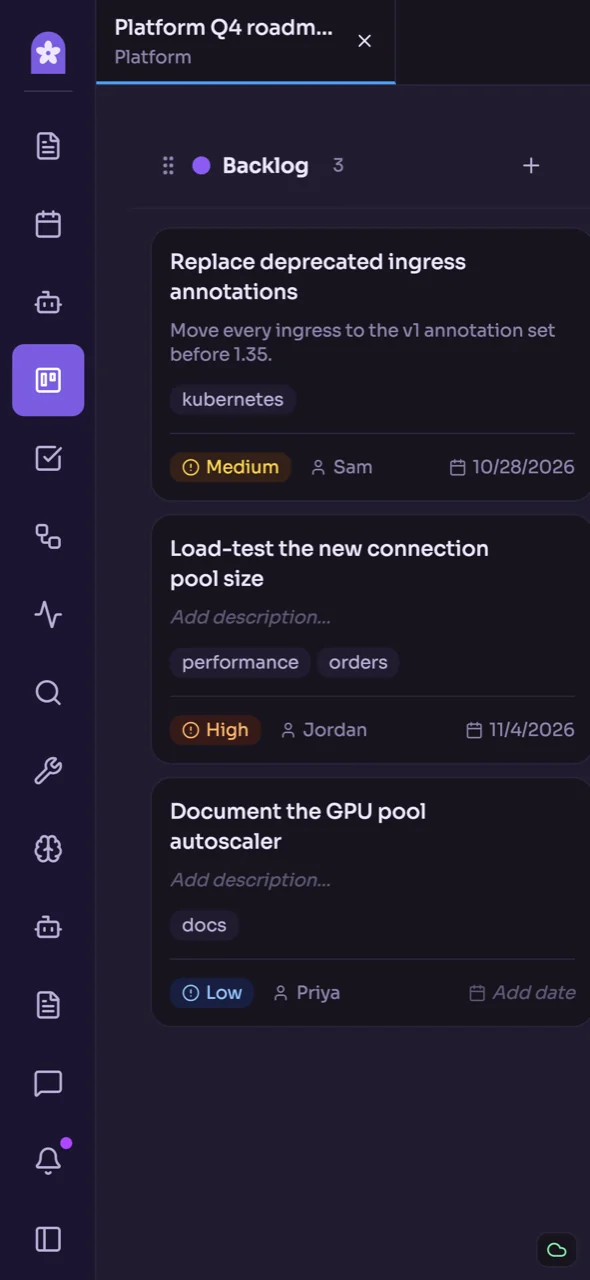
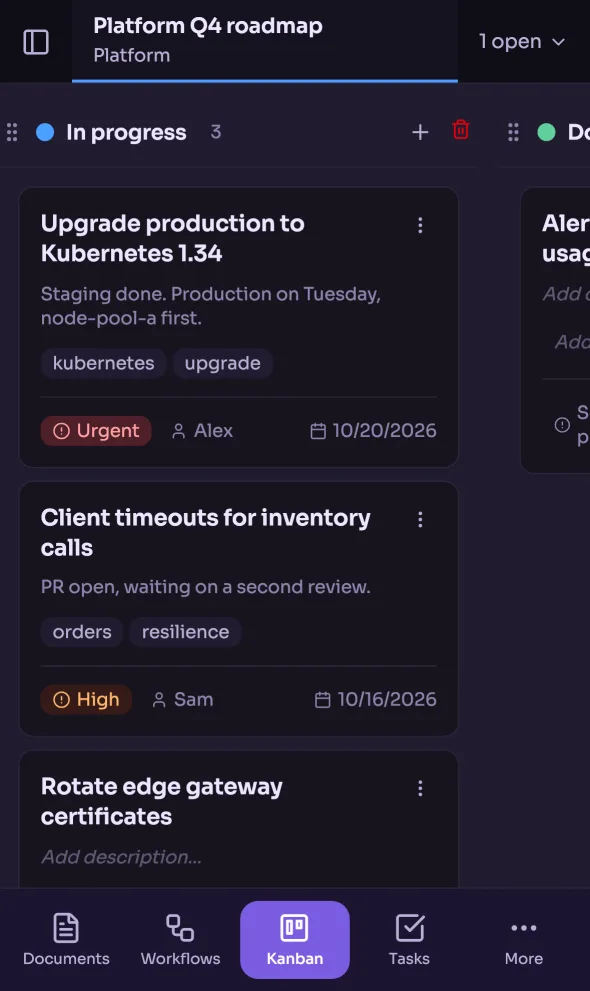
Phone Layout

diff --git a/index.html b/index.html
@@ -8,11 +8,11 @@
 <link rel="preconnect" href="https://fonts.googleapis.com">
 <link rel="preconnect" href="https://fonts.gstatic.com" crossorigin>
 <link href="https://fonts.googleapis.com/css2?family=Sora:wght@400;600;700&amp;display=swap" rel="stylesheet">
-<link rel="stylesheet" href="css/tokens.css?v=20261016a">
-<link rel="stylesheet" href="css/site.css?v=20261016a">
+<link rel="stylesheet" href="css/tokens.css?v=20261017a">
+<link rel="stylesheet" href="css/site.css?v=20261017a">
 <script>document.documentElement.classList.add('js');</script>
-<script type="module" src="js/jacaranda-tree.js?v=20261016a"></script>
-<script type="module" src="js/main.js?v=20261016a"></script>
+<script type="module" src="js/jacaranda-tree.js?v=20261017a"></script>
+<script type="module" src="js/main.js?v=20261017a"></script>
 </head>
 <body>
 <div class="page">
@@ -59,7 +59,7 @@
   <div class="hero-stage">
     <div class="frame-col">
       <!--
-        Two screenshot frames, desktop and phone, each a carousel of 1–6
+        Two screenshot frames, desktop and phone, each a carousel of 1–8
         .slide elements. Click the frame behind to bring it to the front.
         To add a screenshot, replace a slide's placeholder with
           <img src="images/shot1.png" alt="…">
@@ -110,13 +110,28 @@
         <div class="device-body">
         <div class="deck phone-deck">
           <div class="slide" data-caption="Read a runbook on the go.">
-            <img src="images/screenshots/phone-documents.webp" alt="Runbook open on a phone" width="590" height="1280" decoding="async">
+            <img src="images/screenshots/phone-document-reader.webp" alt="Runbook open in the reader on a phone" width="590" height="991" decoding="async">
+          </div>
+          <div class="slide" data-caption="Edit Markdown with line numbers and a formatting toolbar.">
+            <img src="images/screenshots/phone-document-editor.webp" alt="Runbook open in the Markdown editor on a phone" width="590" height="991" decoding="async">
+          </div>
+          <div class="slide" data-caption="Check a workflow on your phone, edit it on desktop.">
+            <img src="images/screenshots/phone-workflow.webp" alt="Read-only workflow with a health check and a branch on a phone" width="590" height="991" decoding="async">
           </div>
           <div class="slide" data-caption="The board, one column at a time.">
-            <img src="images/screenshots/phone-kanban.webp" alt="Kanban board on a phone" width="590" height="1280" decoding="async">
+            <img src="images/screenshots/phone-kanban.webp" alt="Kanban board on a phone" width="590" height="991" decoding="async">
           </div>
-          <div class="slide" data-caption="The same server, from your phone.">
-            <img src="images/screenshots/phone-sign-in.webp" alt="Sign-in page on a phone" width="590" height="1280" decoding="async">
+          <div class="slide" data-caption="Your tasks with priorities, due dates and a timer.">
+            <img src="images/screenshots/phone-tasks.webp" alt="Task list on a phone" width="590" height="991" decoding="async">
+          </div>
+          <div class="slide" data-caption="The same runbook in the light theme.">
+            <img src="images/screenshots/phone-document-reader-light.webp" alt="Runbook in the reader, light theme, on a phone" width="590" height="991" decoding="async">
+          </div>
+          <div class="slide" data-caption="The board in the light theme.">
+            <img src="images/screenshots/phone-kanban-light.webp" alt="Kanban board, light theme, on a phone" width="590" height="991" decoding="async">
+          </div>
+          <div class="slide" data-caption="Tasks in the light theme.">
+            <img src="images/screenshots/phone-tasks-light.webp" alt="Task list, light theme, on a phone" width="590" height="991" decoding="async">
           </div>
         </div>
         <div class="frame-foot phone-foot">
@@ -131,7 +146,7 @@
         <button type="button" class="device-switch" aria-label="Bring phone screenshots to the front"></button>
       </figure>
       </div>
-      <p class="stack-note">On a phone, Jacarium runs in your browser; it isn't optimised for mobile yet.</p>
+      <p class="stack-note">Jacarium is mobile friendly: on a phone, it runs in your browser.</p>
     </div>
 
     <div class="hero-tree">

diff --git a/css/site.css b/css/site.css
@@ -84,14 +84,14 @@ img { max-width: 100%; }
 .device[data-back] .device-switch { display: block; }
 
 .phone { position: absolute; left: 0; bottom: -3%; width: 29%; max-width: 250px; padding: 8px; border-radius: 36px; background: var(--bg-card); box-shadow: 0 0 0 1px var(--line-strong), 0 40px 80px -30px #000000, 0 20px 40px -20px #2A1F4D; transform-origin: 0% 100%; }
-.phone-deck { aspect-ratio: 9 / 19.5; margin: 0; }
+.phone-deck { aspect-ratio: 590 / 991; margin: 0; }
 .phone-deck .slide, .phone-deck .slide-ph { border-radius: 28px; }
 .phone-deck .slide-ph { padding: 12px; gap: 8px; }
 .phone-deck .slide-ph-title { font-size: 12px; }
 .phone-foot { flex-direction: column; gap: 6px; padding: 10px 0 4px; }
 .phone-foot .frame-caption { flex: none; text-align: center; font-size: 12px; }
 .phone-foot .carousel-controls { flex-wrap: nowrap; gap: 2px; }
-.phone-foot .dot { width: 20px; }
+.phone-foot .dot { width: 14px; }
 
 .device-stack[data-front="desktop"] .frame { z-index: 2; transform: var(--tilt); }
 .device-stack[data-front="desktop"] .phone { z-index: 1; transform: var(--tilt) translate3d(-30%, -4%, 0) scale(0.78); filter: brightness(0.55) saturate(0.8); }

diff --git a/faq.html b/faq.html
@@ -8,8 +8,8 @@
 <link rel="preconnect" href="https://fonts.googleapis.com">
 <link rel="preconnect" href="https://fonts.gstatic.com" crossorigin>
 <link href="https://fonts.googleapis.com/css2?family=Sora:wght@400;600;700&amp;display=swap" rel="stylesheet">
-<link rel="stylesheet" href="css/tokens.css?v=20261016a">
-<link rel="stylesheet" href="css/site.css?v=20261016a">
+<link rel="stylesheet" href="css/tokens.css?v=20261017a">
+<link rel="stylesheet" href="css/site.css?v=20261017a">
 <script>document.documentElement.classList.add('js');</script>
 </head>
 <body>

diff --git a/js/main.js b/js/main.js
@@ -4,7 +4,7 @@ const reduced = typeof matchMedia !== 'undefined' && matchMedia('(prefers-reduce
 
 // Returns a controller; an inactive carousel (the frame behind) doesn't auto-rotate.
 function initCarousel(root) {
-  const slides = [...root.querySelectorAll('.slide')].slice(0, 6);
+  const slides = [...root.querySelectorAll('.slide')].slice(0, 8);
   const n = slides.length;
   if (!n) return null;
   const dotsEl = root.querySelector('.dots');
